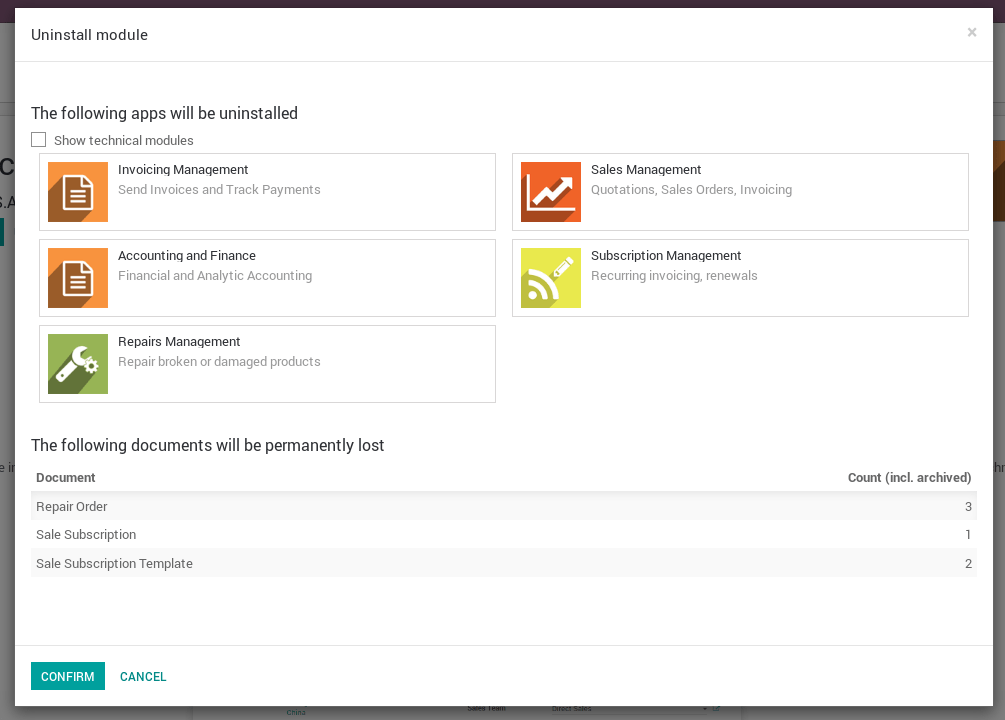
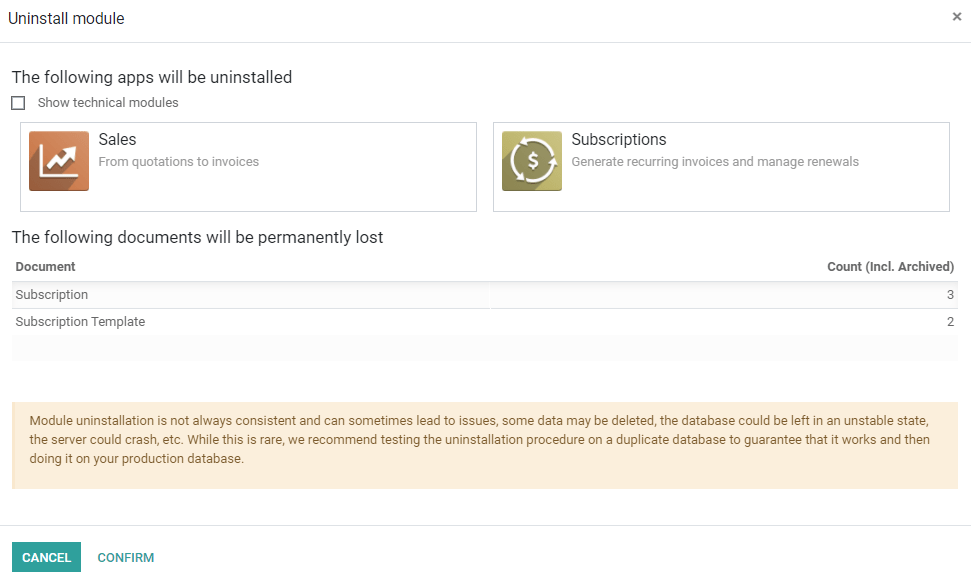
[IMP] general: add intro for "general" + imp uninstalling apps/modules
task-2575136

Changed region(s): [[0.0, 0.0, 1.0, 1.0], [0.4634, 0.2169, 0.8651, 0.4337]]

diff --git a/content/applications/general.rst b/content/applications/general.rst
@@ -16,94 +16,70 @@ General
     general/in_app_purchase
     general/unsplash
 
-.. _general/users-features:
+**Odoo** is a suite of open source business apps that cover all your company needs: :doc:`CRM
+<sales/crm>`, :doc:`eCommerce <websites/ecommerce>`, :doc:`accounting <finance/accounting>`,
+:doc:`inventory <inventory_and_mrp/inventory>`, :doc:`point of sale <sales/point_of_sale>`,
+:doc:`project management <services/project>`, etc. Its unique value proposition is to be at the same
+time *very easy* to use and *fully integrated*.
 
-Users and Features
-==================
+This section of the documentation covers all functional aspects that aren't app-specific. You can
+find, for example, information about:
 
-As the administrator of your database, you are responsible for its usage.
-This includes the Apps you install as well as the number of users currently
-in use.
+- :doc:`general/users` and :doc:`general/users/access_rights`, to configure each user correctly.
+- :doc:`general/export_import_data`, to transfer data from and to other environments than Odoo or
+  update data.
+- :doc:`general/payment_acquirers`, to allow your customers to pay with their favorite payment
+  method.
+- :doc:`general/auth/google`, as an authentication method.
 
-Odoo is many things (ERP, CMS, CRM application, e-Commerce backend, etc.)
-but it is *not* a smartphone. You should apply caution when adding/removing
-features (especially Apps) on your database since this may impact your
-subscription amount significantly (or switch you from a free account
-to a paying one on our online platform).
+.. important::
+   - | **Installing or uninstalling apps, managing users, etc., is up to you.**
+     | As the administrator of your database, you are responsible for its usage, as you know best
+       how your organization works. This includes the installation or uninstallation of :ref:`apps
+       <general/apps-modules>` as well as the number of :doc:`users <general/users>` currently in
+       use.
+   - | **Odoo apps have dependencies.**
+     | Installing some apps and features with dependencies may also install additional apps and
+       modules that are technically required, even if you won't actively use them.
+   - | **Always test app installation/removal on a duplicate of your database.**
+     | This way, you can know what app dependencies may be required or what data may be erased.
 
-This section contains some information as to how you can manage your Odoo
-instances. Before carrying any of these procedures, we **strongly** advise
-to test them on a duplicate of your database first. That way, if something goes
-wrong, your day-to-day business is not impacted.
+.. seealso::
+   - :ref:`Online Database management: Duplicate a database <duplicate_online>`
+   - :ref:`On-premises Database management: Duplicate a database <duplicate_premise>`
+   - `Submit a Support Ticket <https://www.odoo.com/help>`_
 
-.. note:: You can find guides on how to duplicate your databases both for
-    :ref:`online <duplicate_online>` and :ref:`on premise <duplicate_premise>`
-    installations.
+.. _general/apps-modules:
 
-.. note:: If you have questions about the content of this section or if you
-    encounter an issue while carrying out these procedures, please contact
-    us through our `support form <https://www.odoo.com/help>`__.
+Apps and modules
+================
 
+Odoo is *not a smartphone*, and its apps shouldn't be installed or uninstalled carelessly. Apply
+caution when adding or removing apps and modules on your database since this may impact your
+subscription costs.
 
-Uninstalling Apps
------------------
+.. _general/uninstall:
 
-.. warning:: Make sure you first test what you are about to do on a
-    :ref:`duplicate <duplicate_online>` of your database before making any
-    changes (*especially* installing/uninstalling apps).
+Uninstall apps and modules
+--------------------------
 
-In your Odoo instance click on **Settings**; in this app, you will be
-able to see how many applications you have installed. Click on **Browse
-Apps** to access the list of your installed applications.
-
-+----------------+----------------+
-|   |settings|   | |browse_apps|  |
-+----------------+----------------+
-
-In your applications' dashboard, you will see all the icons of your
-applications. Click on the application you want to uninstall. Then, on
-the form of the application, click on **Uninstall**.
+Go to :menuselection:`Apps`, click on the *dropdown menu* of the app you want to uninstall, then on
+*Uninstall*.
 
 .. image:: general/uninstall.png
-    :align: center
+   :align: center
 
-.. danger:: Some applications have dependencies, like Invoicing, eCommerce,
-    etc. Therefore, the system will give you a warning message to advise
-    you of what is about to be removed. If you uninstall your application,
-    all its dependencies will be uninstalled as well (and the data in them
-    will permanently disappear). If you are sure you still want to uninstall
-    it, then click **Confirm**.
-
-Last, after having checked the warning message (if any), click **Confirm**.
+Some apps have dependencies, meaning that one app requires another. Therefore, uninstalling one app
+may uninstall multiple apps and modules. Odoo warns you which dependant apps and modules are
+affected by it.
 
 .. image:: general/uninstall_deps.png
-    :align: center
+   :align: center
 
-You have finished uninstalling your application.
+To complete the uninstallation, click on *Confirm*.
 
-Good to know
-------------
-
-* **Uninstalling apps, managing users, etc. is up to you**: no one else can
-  know if your business flow is broken better than you. If we were to uninstall
-  applications for you, we would never be able to tell if relevant data had
-  been removed or if one of your business flow was broken because we *do not
-  know how you work* and therefore cannot validate these kinds of operations.
-
-* **Odoo Apps have dependencies**: this means that you may need to install
-  modules that you do not actively use to access some features of Odoo
-  you might need. For example, the Website Builder app is needed to be
-  able to show your customer their Quotes in a web page. Even though you
-  might not need or use the Website itself, it is needed for the Online
-  Quotes feature to work properly.
-
-* **Always test app installation/removal on a duplicate** (or on a
-  free trial database): that way you can know what other apps may
-  be required, etc. This will avoid surprises when uninstalling
-  or when receiving your invoices.
-
-.. |settings| image:: general/settings_app.png
-.. |browse_apps| image:: general/browse_apps.png
+.. danger::
+   Uninstalling an app also uninstalls all its dependencies and permanently erases their data.
 
 .. _developer-mode:
 
@@ -112,8 +88,8 @@ Activate the developer mode (debug mode)
 
 The developer mode (or debug mode) gives you access to extra and advanced tools.
 
-Through the Settings application
---------------------------------
+Through the Settings
+--------------------
 
 Go to :menuselection:`Settings --> Activate the developer mode`.
 

diff --git a/content/applications/general/users.rst b/content/applications/general/users.rst
@@ -67,12 +67,11 @@ groups.
 Deactivate Users
 ================
 
-Go to :menuselection:`Settings --> Users & Companies --> Users`, open the user you want to deactivate, click on
-*Action*, and then on *Archive*.
+Go to :menuselection:`Settings --> Users & Companies --> Users`, open the user you want to
+deactivate, click on *Action*, and then on *Archive*.
 
 .. danger::
    **Never** deactivate the main user (*admin*).
-
 
 .. _users/passwords-management:
 
